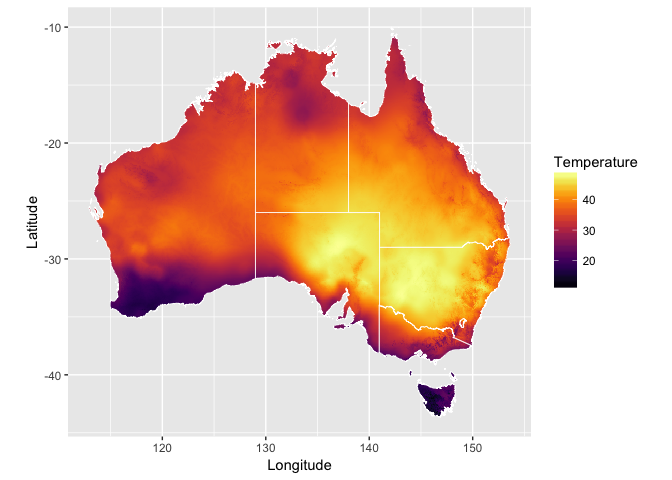
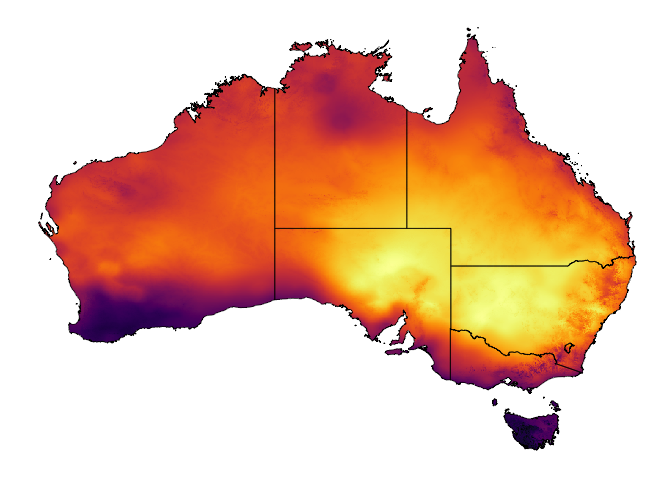
update map

diff --git a/README.md b/README.md
@@ -28,6 +28,7 @@ library(raster)
 ``` r
 library(ggplot2)
 library(viridis)
+library(ggthemes)
 ```
 
 and one from ROpenSciLabs, [rnaturalearth](https://github.com/ropenscilabs/rnaturalearth):
@@ -98,10 +99,12 @@ ggplot(data = oz_heat_df, aes(y = Latitude, x = Longitude)) +
   geom_raster(aes(fill = Temperature)) +
   scale_fill_viridis(option = "inferno") +
   geom_polygon(data = oz_shape, aes(x = long, y = lat, group = group),
-               fill = NA, color = "white", size = 0.25) +
+               fill = NA, color = "black", size = 0.25) +
+  theme_map() +
+  theme(legend.position = c(1, .5)) +
   coord_quickmap()
 ```
 
     ## Regions defined for each Polygons
 
-![](README_files/figure-markdown_github/unnamed-chunk-2-1.png)
+![](README_files/figure-markdown_github/plot-1.png)
